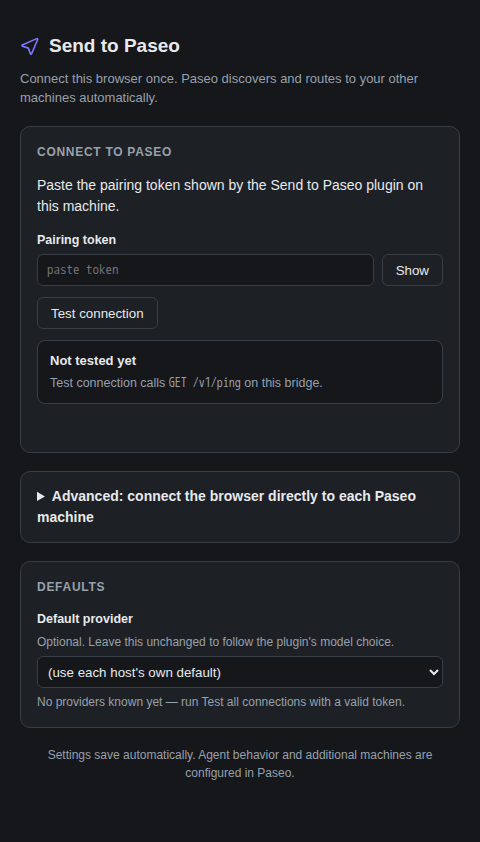
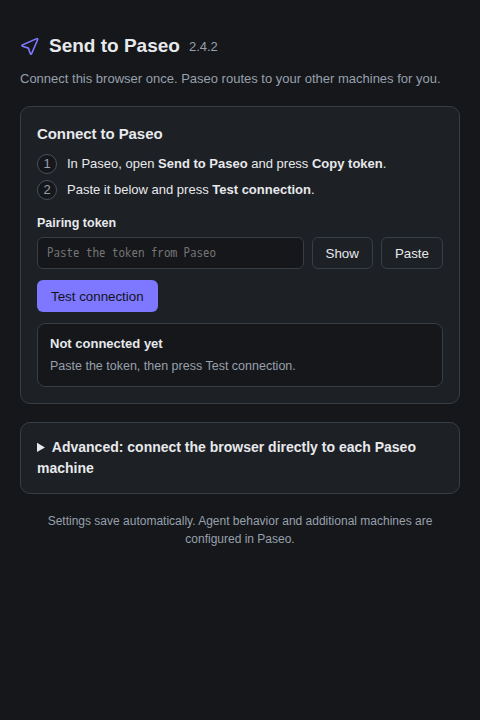
feat: Show Send to Paseo versions in settings

diff --git a/extension/public/options.html b/extension/public/options.html
@@ -68,6 +68,7 @@
       main { grid-template-columns: minmax(0, 1fr); max-width: 620px; margin: 0 auto; display: grid; gap: 18px; }
       section, details.advanced, .hosts, .host { min-width: 0; }
       h1 { font-size: 19px; margin: 0; display: flex; align-items: center; gap: 9px; }
+      #extensionVersion { color: var(--muted); font-size: 13px; font-weight: 400; }
       h1 svg { width: 20px; height: 20px; color: var(--accent); }
       .sub { color: var(--muted); font-size: 13px; margin: -10px 0 0; }
       /* Empty live regions (no pending request, no grants) must not leave a
@@ -249,6 +250,7 @@
           <path d="M1.8 7.2 13.4 2.1a.55.55 0 0 1 .74.72L9.3 14.2a.55.55 0 0 1-1.02-.05L6.7 9.7 2.0 8.2a.55.55 0 0 1-.2-1Z" stroke="currentColor" stroke-width="1.3" stroke-linejoin="round"/>
         </svg>
         Send to Paseo
+        <span id="extensionVersion"></span>
       </h1>
       <p class="sub">
         Connect this browser once. Paseo routes to your other machines for you.

diff --git a/extension/src/options/index.ts b/extension/src/options/index.ts
@@ -42,6 +42,9 @@ const advancedDetails = $<HTMLDetailsElement>("advancedDetails");
 const hostsHeading = $<HTMLElement>("hostsHeading");
 const hostsHelp = $<HTMLElement>("hostsHelp");
 
+const extensionVersion = chrome.runtime.getManifest().version;
+$("extensionVersion").textContent = extensionVersion;
+
 let savedTimer: number | undefined;
 
 function flashSaved(): void {
@@ -288,7 +291,8 @@ async function checkConnection(row: HostRow, host: HostConfig): Promise<void> {
   await refreshProviderPicker();
 
   const name = host.label.trim() || machineName;
-  const pluginBit = `plugin ${d.version}`;
+  const pluginBit = `plugin ${d.version}` +
+    (d.version === extensionVersion ? "" : `, differs from extension ${extensionVersion}`);
   const paseoBit = d.daemon.version ? `Paseo ${d.daemon.version}` : "Paseo";
   const models = d.providers?.length ?? 0;
   row.status.title =

diff --git a/plugin/client/settings.tsx b/plugin/client/settings.tsx
@@ -14,6 +14,7 @@ import {
   addAdditionalMachine,
   clearRecentSends,
   DEFAULT_PORT,
+  PLUGIN_VERSION,
   enablePrivateAccess,
   externalBridgeUrlProblem,
   getConnectionCode,
@@ -1186,6 +1187,7 @@ export function SendToPaseoSettings({ theme, host, layout, navigation }: PluginS
         </>
       ) : null}
 
+      <Text selectable style={styles.muted}>Send to Paseo {PLUGIN_VERSION}</Text>
     </ScrollView>
   );
 }

diff --git a/AGENTS.md b/AGENTS.md
@@ -371,7 +371,7 @@ the mock bridge.
 
 ```sh
 cd plugin
-npm run verify                           # typecheck + 74 server checks + 32 node tests (host-client, main-agent, follow-up, daemon-connection) + 10 agent-tools/chat + 1 native-tools; never touches ~/.config/gh
+npm run verify                           # typecheck + 74 server checks + 33 node tests (host-client, settings, main-agent, follow-up, daemon-connection) + 10 agent-tools/chat + 1 native-tools; never touches ~/.config/gh
 paseo plugin reload send-to-paseo && paseo plugin ls   # needs PASEO_PASSWORD on an authed daemon
 paseo plugin logs send-to-paseo          # expect the three dependency self-check lines, no stack traces
 time paseo plugin reload send-to-paseo   # must finish in seconds, twice — proves no reload hang
@@ -385,7 +385,7 @@ Require `running`, an empty `ERROR` column, and `bridge listening on http://127.
 cd extension
 npm run typecheck
 npm run build
-node ../test/e2e.mjs                     # 73 cases; builds dist/ and dist-test/ itself
+node ../test/e2e.mjs                     # 74 cases; builds dist/ and dist-test/ itself
 STP_ONLY=6b,9f node ../test/e2e.mjs      # just those cases, for proving an assertion can fail; never a release gate
 ```
 
@@ -422,6 +422,7 @@ fixture at a real repository — every screenshot in `docs/screenshots/` is comm
 | 4 | Resolve prewarming: mounting the PR button reaches `/v1/resolve` before the user clicks, and the popover consumes that result. |
 | 8b, 8c | First PR opened from a full inbox load, cleanup on return to inbox, and recovery when Graphite replaces the populated app root without changing the URL. Test manifest paths mirror shipping registration. |
 | 8, 24 | SPA re-targeting. The MAIN-world `pushState` shim on Graphite's router and on GitHub's Turbo; a stale PR number can never reach `/v1/resolve`. |
+| 10v | Settings version from the installed manifest; per-host matching, older, newer and beta plugin versions. Version differences are informational, never a contract failure or an instruction to downgrade. |
 | 10g | Remote plain HTTP is rejected before Chrome permission is requested; an HTTPS proxy URL can request only its exact origin. |
 | 11 | The bearer token is unreachable from the page — DOM, shadow roots, attributes, `window`, both storages, plus a static scan of the built bundles. |
 | 12 | Every bridge security rule: Origin on preflight and real request, Host, body cap, rate limit and its keying. |
@@ -584,3 +585,7 @@ This repository is public, and so is everything built from it: npm packages, rel
 - **Output from real data stays local.** Logs, sample results and screenshots from a run on the developer's real setup don't go into a commit or PR as-is. Describe them, or swap every real value for a fictional one first.
 - **Commit only source.** Never commit symlinks, `node_modules`, or anything that points into the local machine. Before every commit, read `git diff --cached` for absolute paths and real names.
 - **Found one already in the repo?** Fix it in a commit whose message doesn't quote the value (for example "replace a real name with a fictional one"), and tell the developer so they can decide whether history and npm need cleaning too.
+
+## Settings version labels
+
+The extension header reads its version from `chrome.runtime.getManifest().version`; the Paseo settings footer reads `PLUGIN_VERSION`. Both are selectable text. Per-host plugin versions stay visible, and differences name the extension version without prescribing an update: beta plugins can intentionally differ from the stable Chrome extension.

diff --git a/extension/VERIFICATION.md b/extension/VERIFICATION.md
@@ -1,5 +1,22 @@
 # Verification record
 
+## 2026-11-18 — settings version labels
+
+`npm run verify` passed: typecheck, 21 unit tests, shipping build and **74/74 Chromium cases**,
+including the live read-only case 13. After the design critique refined label placement and
+comparison copy, cases `10a,10b,10c,10d,10e,10f,10v` passed again (7 passed, 67 intentionally
+skipped). The complete suite ran before that final presentation refinement.
+
+New 10v compares the displayed version with the installed manifest and exercises matching,
+older, newer and beta plugin versions. Differences name the extension version without assuming
+which side should update. Removing the label failed with a locator timeout; removing mismatch
+copy failed the comparison assertion. Both deliberate mutations were restored.
+
+Playwright refreshed every existing `options-page*.png` and added matching/mismatch captures
+at 1100px and 390px, light and dark. All were inspected. The two independent impeccable
+assessments found no remaining design blocker; static detection had zero findings/advisories.
+The plugin label uses its own version and is covered by the plugin verification record.
+
 ## 2026-11-18 — "Workspace for this PR" never silently disappears
 
 Additive wire change (no `contract` bump): `followUpUnreachable` on the /v1/resolve response

diff --git a/plugin/VERIFICATION.md b/plugin/VERIFICATION.md
@@ -1,5 +1,21 @@
 # Verification log — `send-to-paseo` plugin
 
+## 2026-11-18 — settings version label
+
+`npm run verify` passed: typecheck, 74 server checks, 33 host/settings/routing/agent tests,
+10 agent-tools/chat tests and one native-tools test. The first attempt used a stale dependency
+cache (SDK 0.10.1) and failed typecheck; after `npm ci --ignore-scripts` from the lockfile
+(SDK 0.14.0), the same verification passed.
+
+`node --test --experimental-strip-types plugin/client/settings.test.mjs` also passed after
+moving the label to the footer. Four deliberate mutations each failed: remove the label,
+substitute the version, disable selection, and use a fixed text color. All were restored.
+
+Playwright captured the actual settings component using React Native Web, synthetic host
+RPC/query data and stubbed icons, at 1100px and 390px in both themes. All four
+`docs/screenshots/paseo-settings-version-*.png` were inspected. This checks web rendering;
+it does not claim an installed-plugin or native-device check. No product installation or reload.
+
 ## 2026-11-03 — existing Follow Up connection
 
 `npm run verify` passed: typecheck, 74 server checks, 18 host/routing/agent tests,

diff --git a/release-notes/unreleased.md b/release-notes/unreleased.md
@@ -1,0 +1,8 @@
+You can now find Send to Paseo's installed version in its settings.
+
+### New
+
+- See the extension version beside the browser settings title and the plugin version at the bottom of the Paseo settings page. Both labels can be copied.
+- Each connection tells you when its plugin version differs from the extension, including the extension version for comparison.
+
+The release version will be chosen before these notes are included in a stable release.
